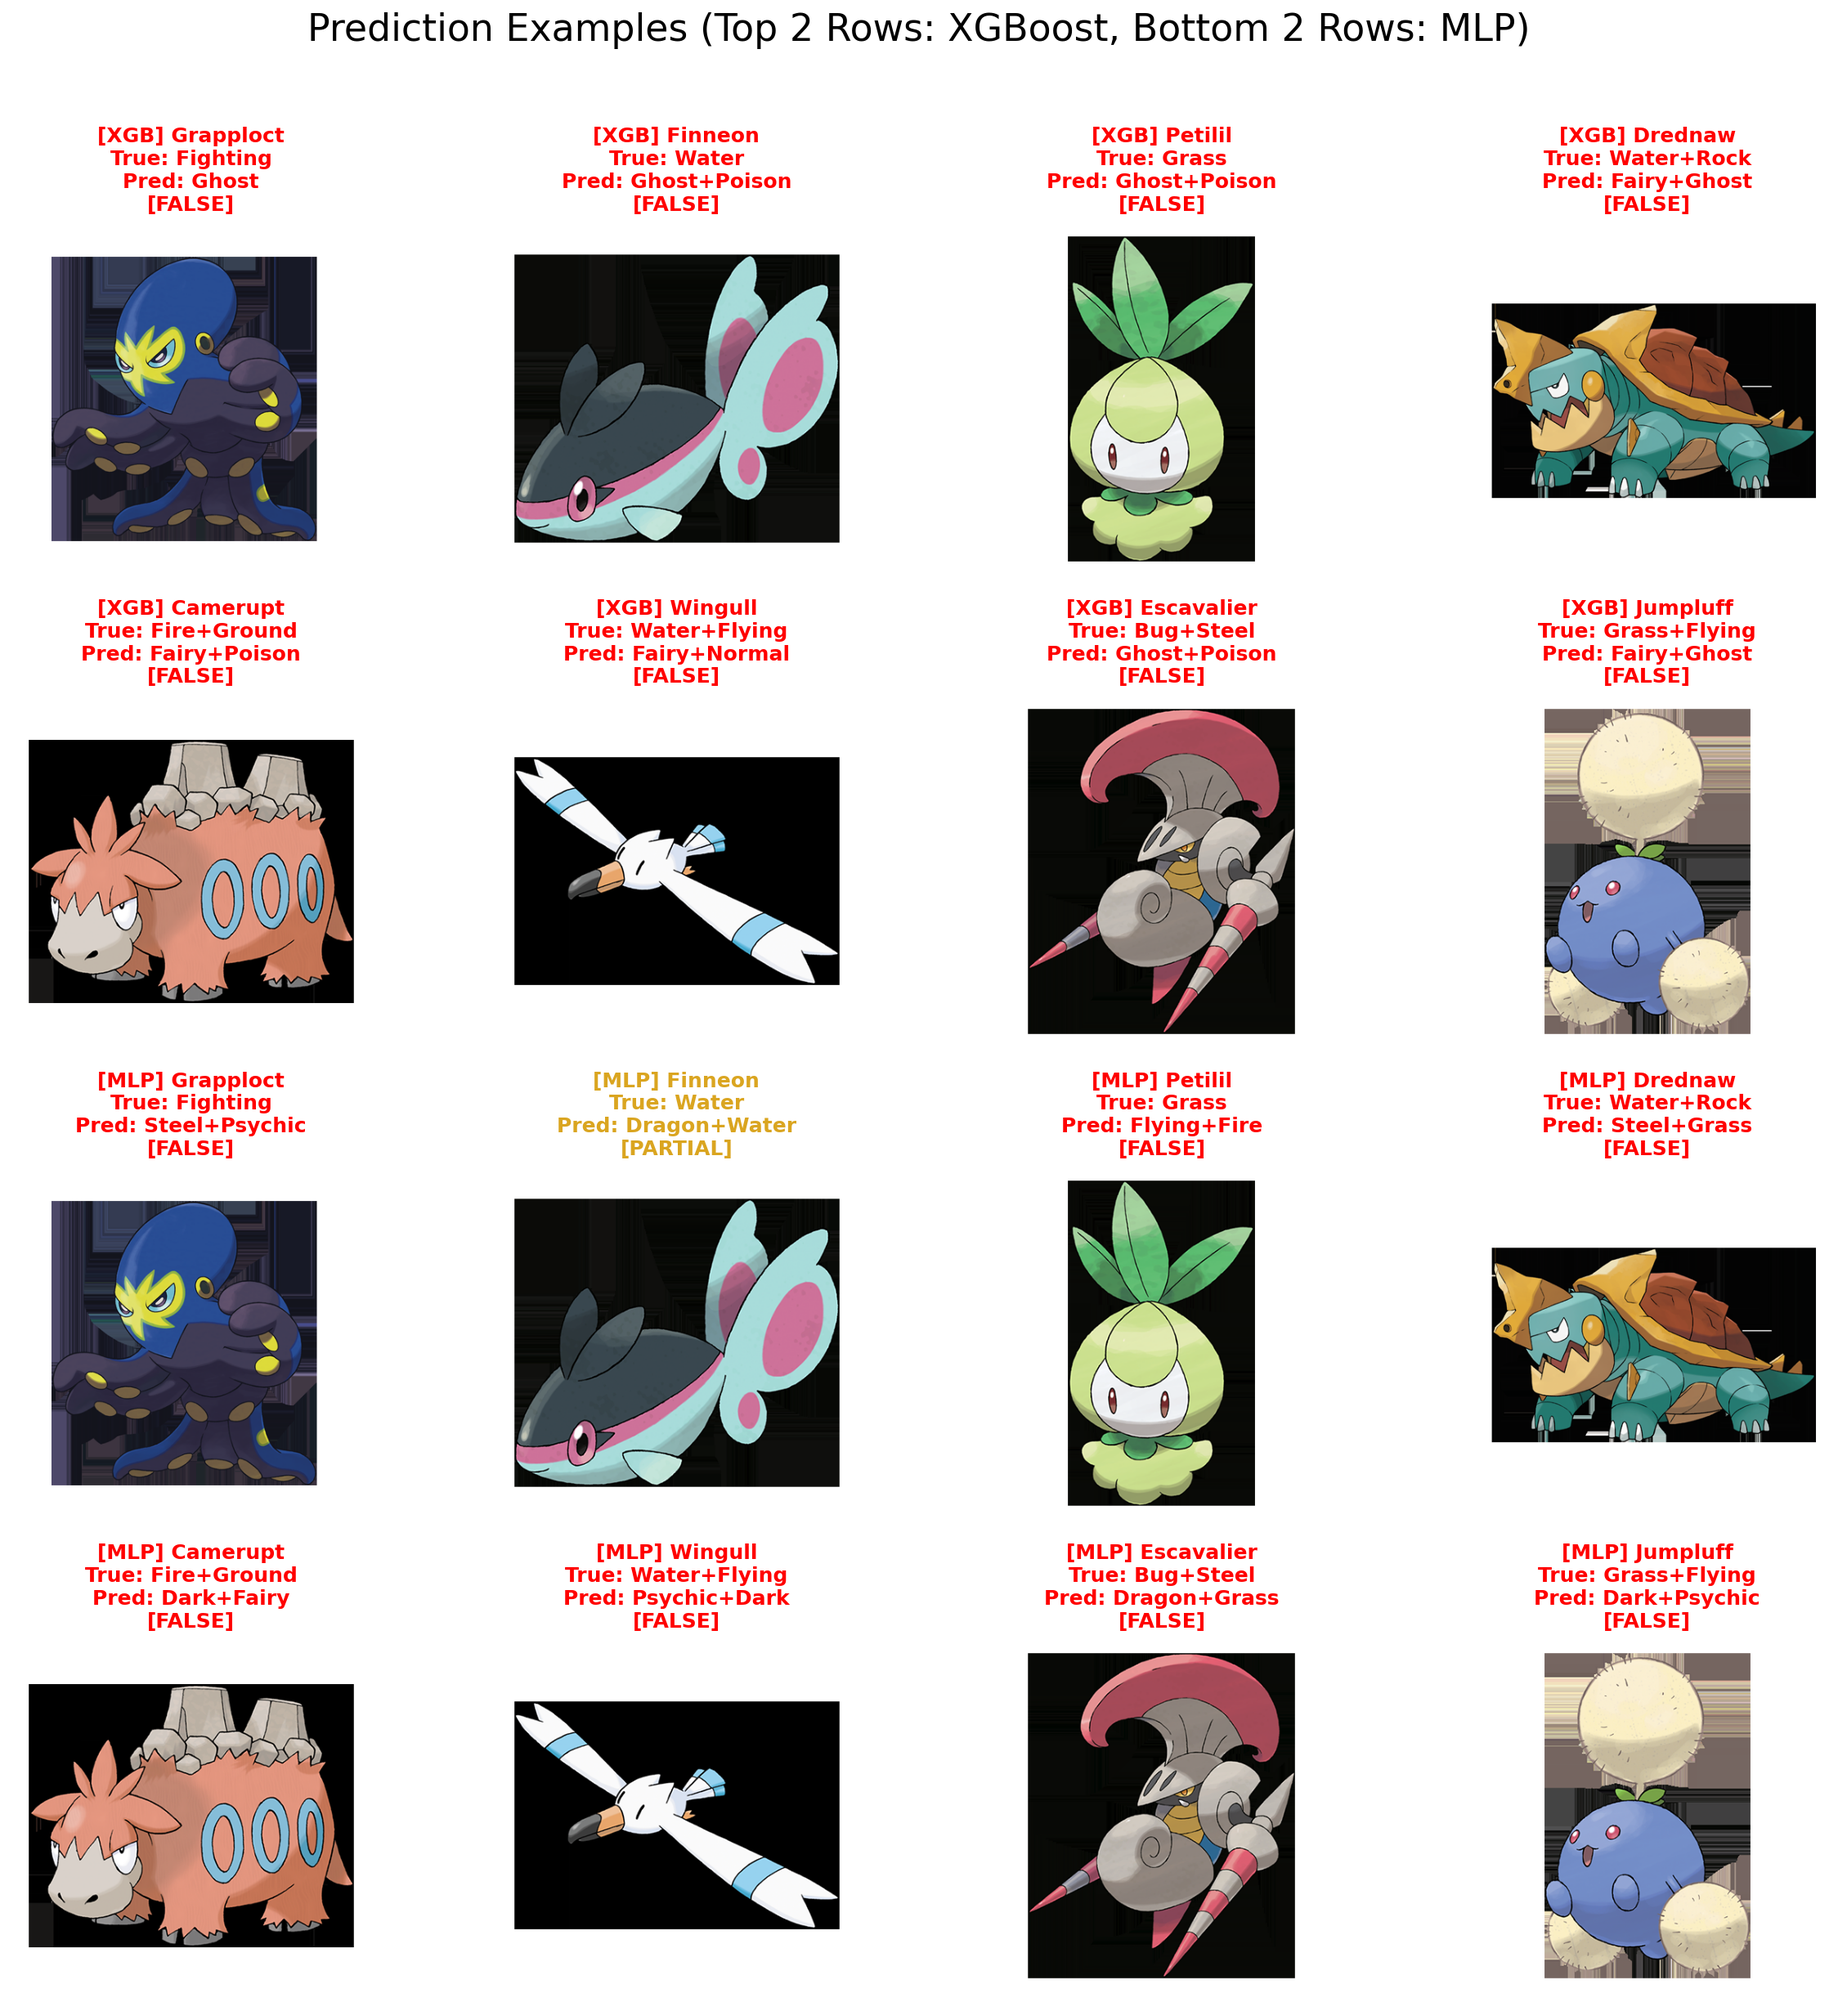
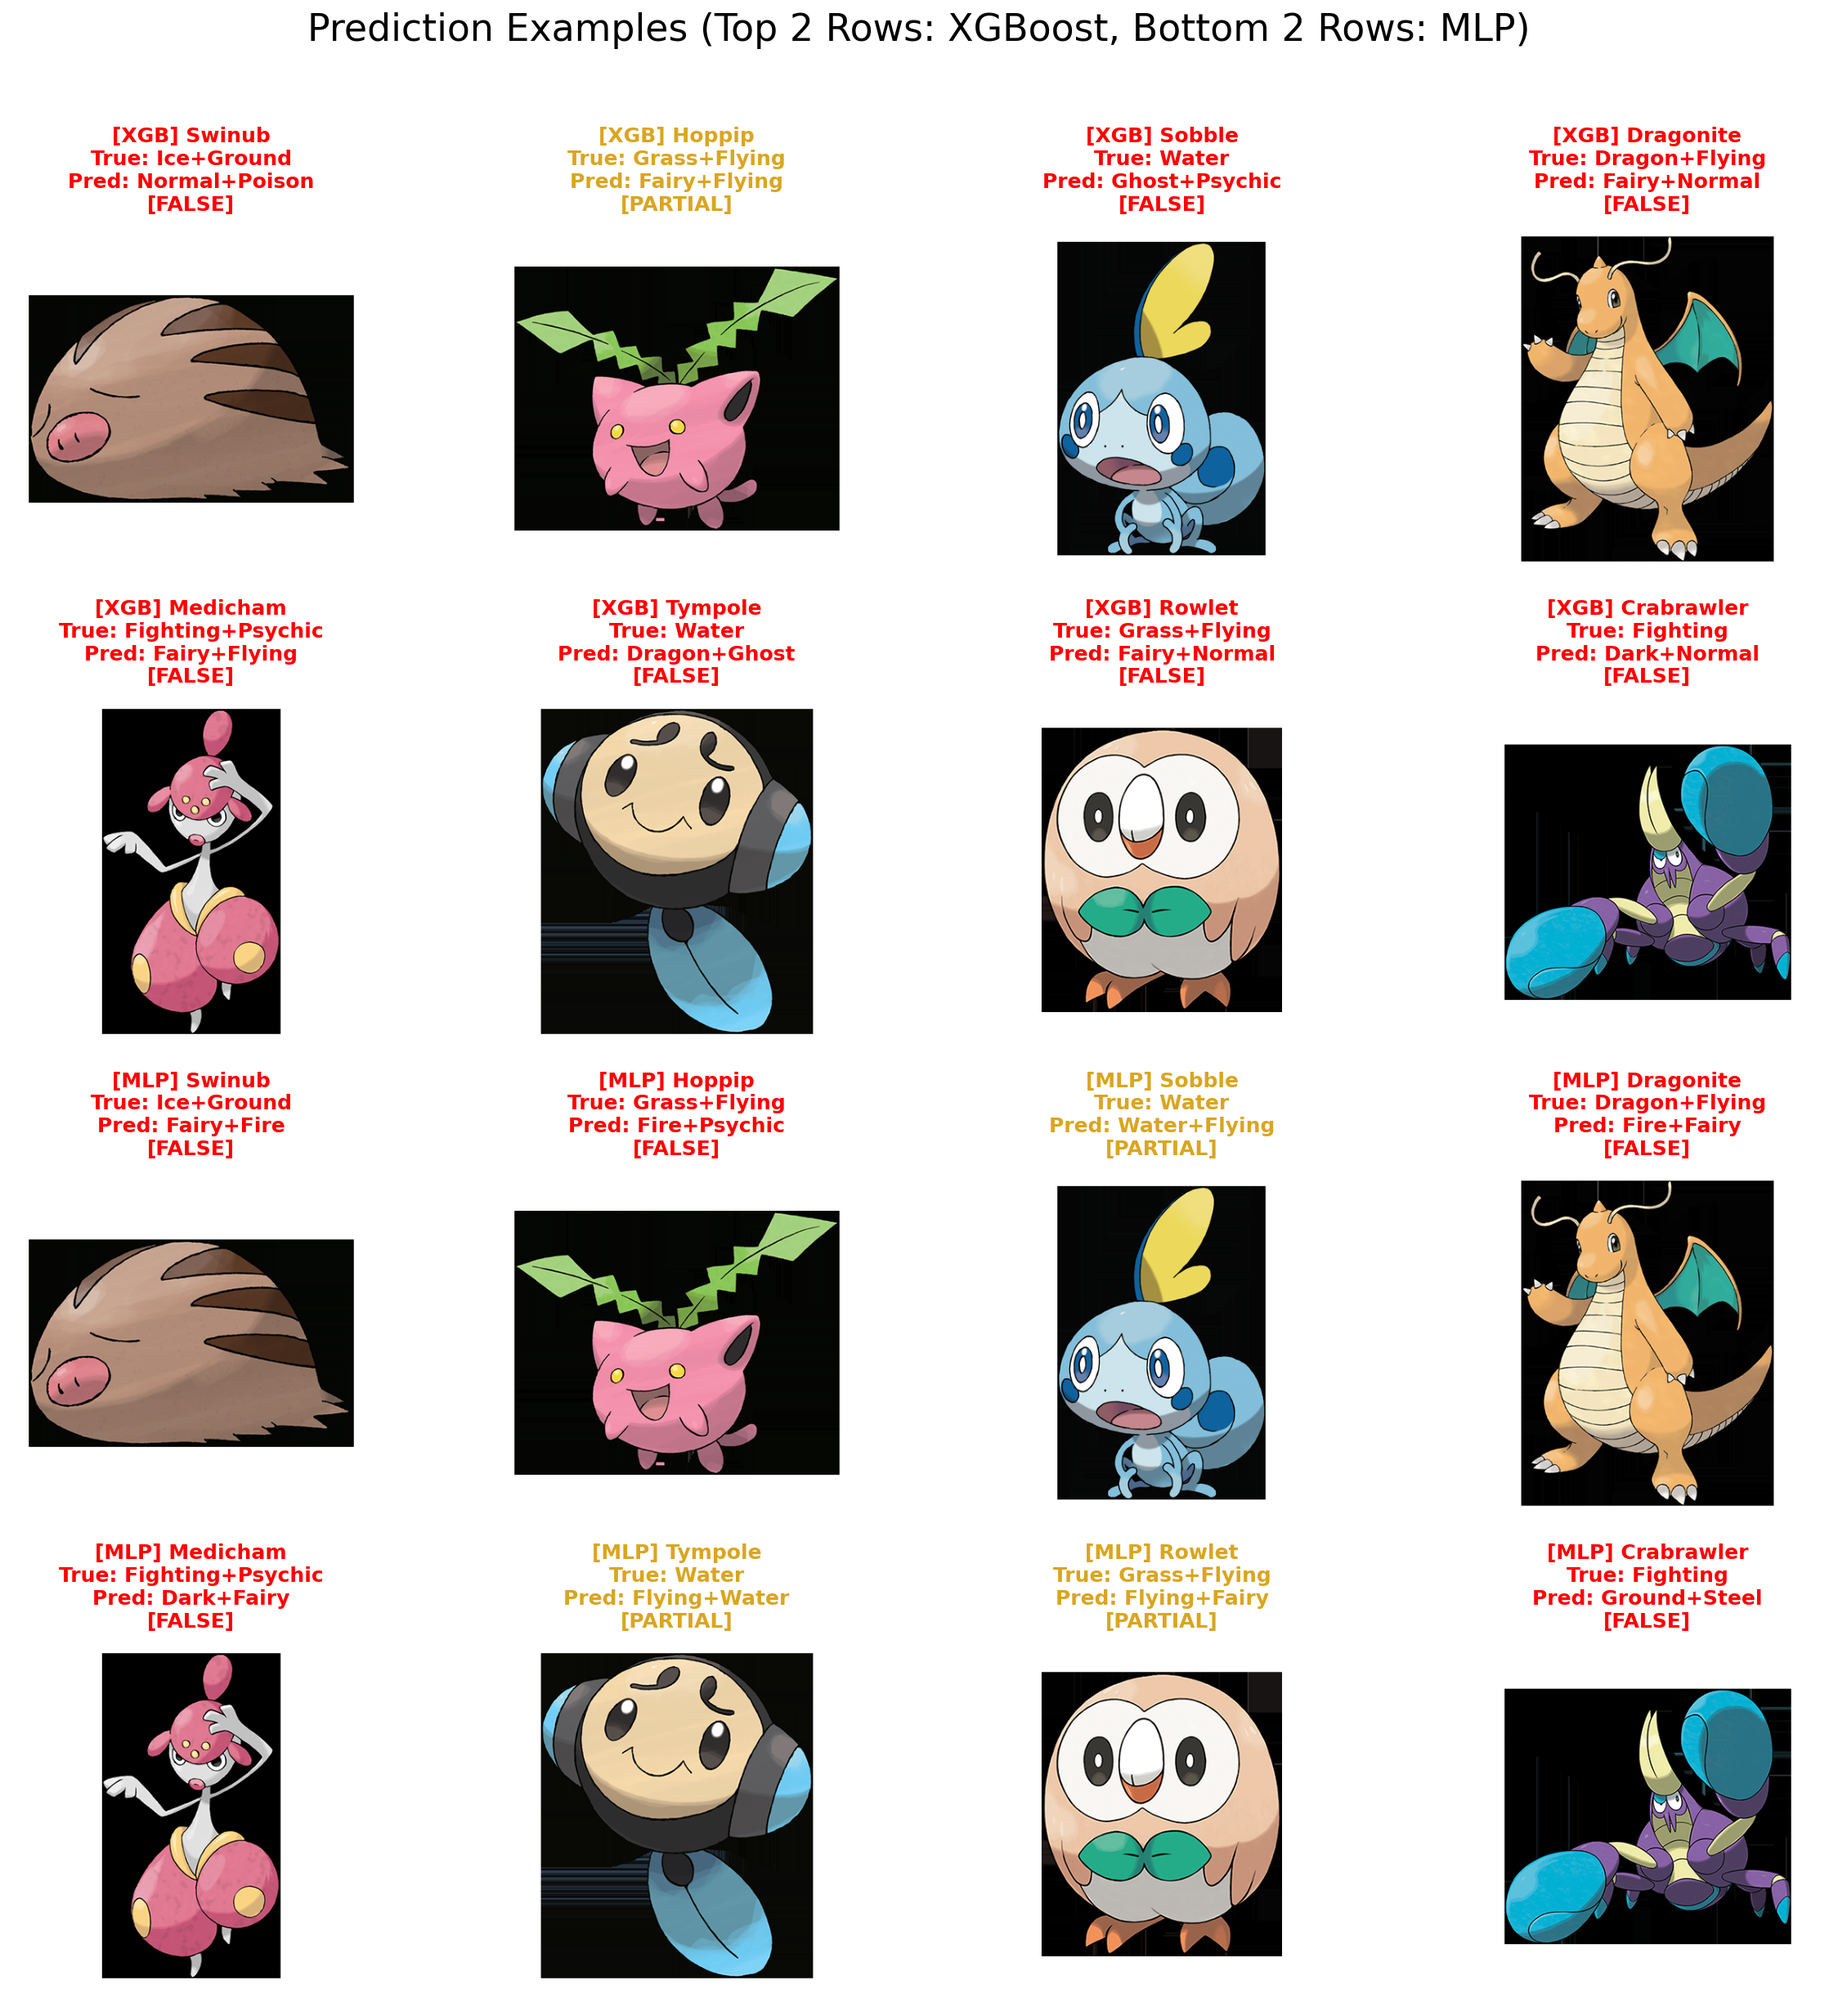
Fix critical bug where generator script did not pass stats to predictor

diff --git a/scripts/generate_examples.py b/scripts/generate_examples.py
@@ -27,7 +27,16 @@ def generate_examples():
         if not Path(img_path).exists():
             continue
             
-        pred = predictor.predict(img_path)
+        stats = {
+            'hp': row['hp'],
+            'attack': row['attack'],
+            'defense': row['defense'],
+            'sp_attack': row['sp_attack'],
+            'sp_defense': row['sp_defense'],
+            'speed': row['speed']
+        }
+        
+        pred = predictor.predict(img_path, stats=stats)
         if not pred:
             continue
             
